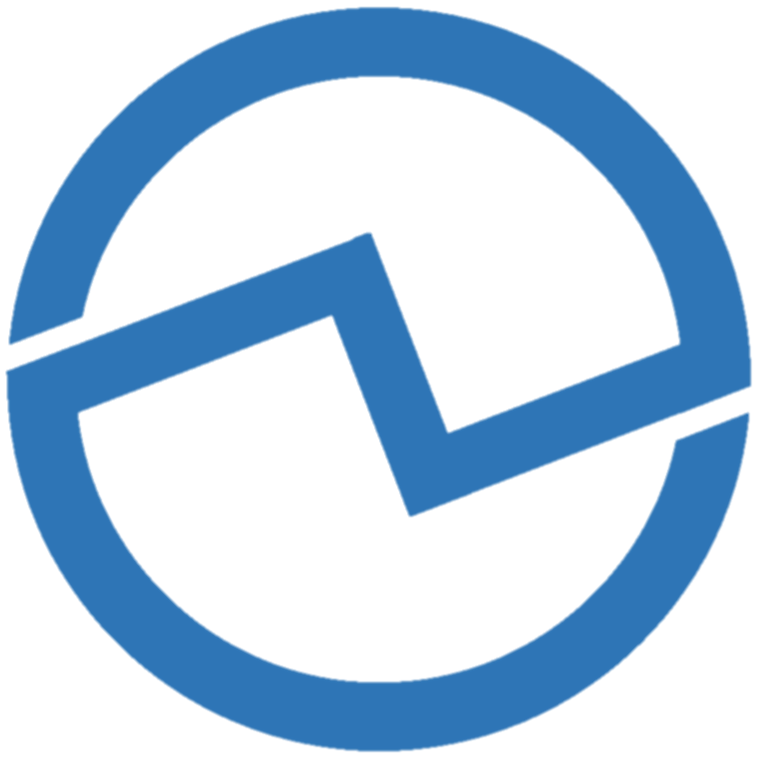
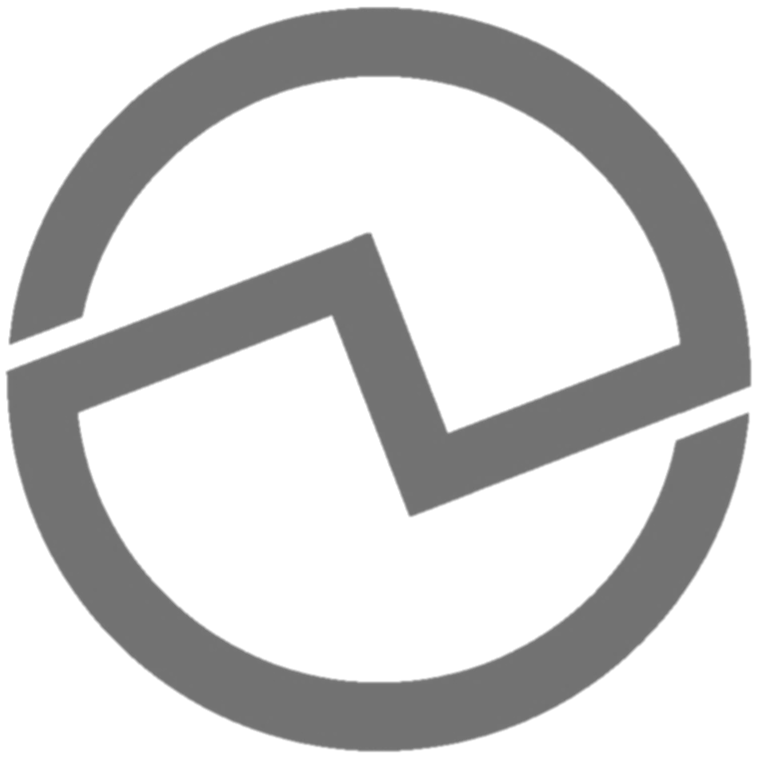
update style

diff --git a/src/main/webapp/resources/css/shop.css b/src/main/webapp/resources/css/shop.css
@@ -16,6 +16,15 @@ body {
 	text-align: center;
 }
 
+.page-header{
+	color: rgb(100, 100, 100);
+	padding: 10px;
+}
+
+a {
+	color: rgb(100, 100, 100);
+}
+
 .container {
 	margin: auto;
 	width: 95%;

diff --git a/src/main/java/com/fajar/livestreaming/service/WebRtcService.java b/src/main/java/com/fajar/livestreaming/service/WebRtcService.java
@@ -3,7 +3,6 @@ package com.fajar.livestreaming.service;
 import javax.servlet.http.HttpServletRequest;
 
 import org.springframework.beans.factory.annotation.Autowired;
-import org.springframework.messaging.simp.SimpMessagingTemplate;
 import org.springframework.stereotype.Service;
 
 import com.fajar.livestreaming.dto.RegisteredRequest;
